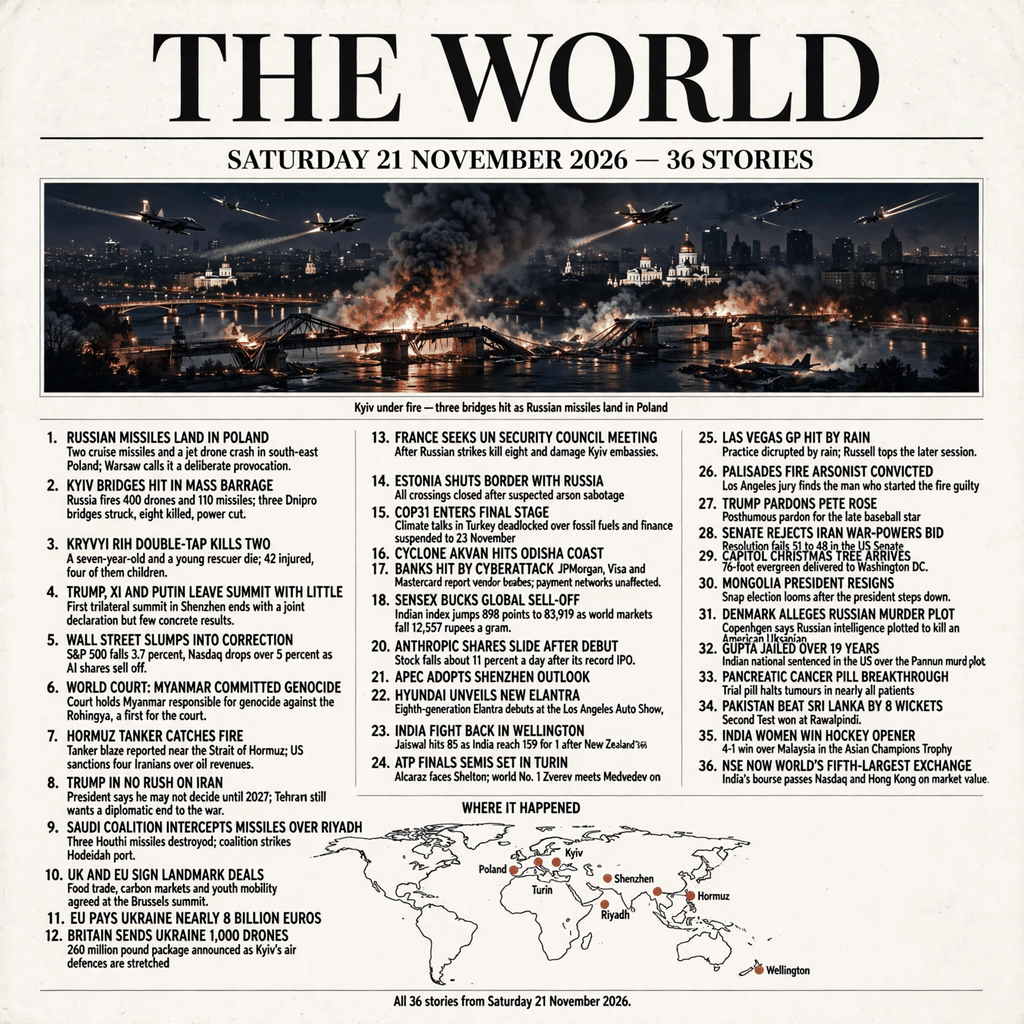
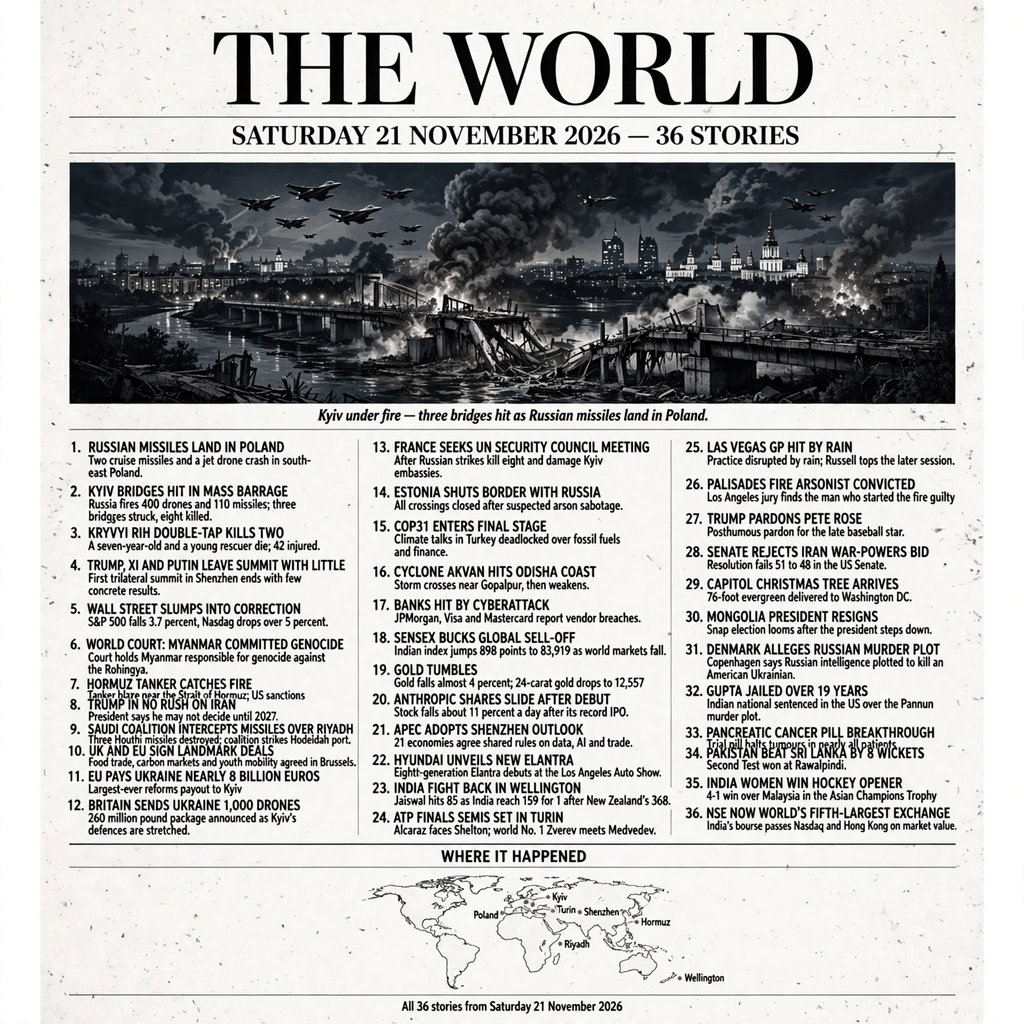
news-image-20261121 v2: restore story 19, fix subhead typos, complete story 24

diff --git a/main.py b/main.py
@@ -3,9 +3,11 @@
 The image itself is the entry: a dense broadsheet front page summing up
 Saturday 21 November 2026 in 36 stories (lead: Russian missiles landing in
 Poland and the mass barrage that hit three Kyiv bridges) plus a labelled
-world-map panel. This program does no drawing and no network access; it
-copies the shipped PNG byte for byte, so two runs always produce identical
-output.
+world-map panel. Version 2 of the image restores story #19 (GOLD TUMBLES)
+as its own numbered headline, fixes the subhead typos of version 1, and
+completes story #24; all 36 numbered headlines render. This program does
+no drawing and no network access; it copies the shipped PNG byte for byte,
+so two runs always produce identical output.
 """
 
 import os
